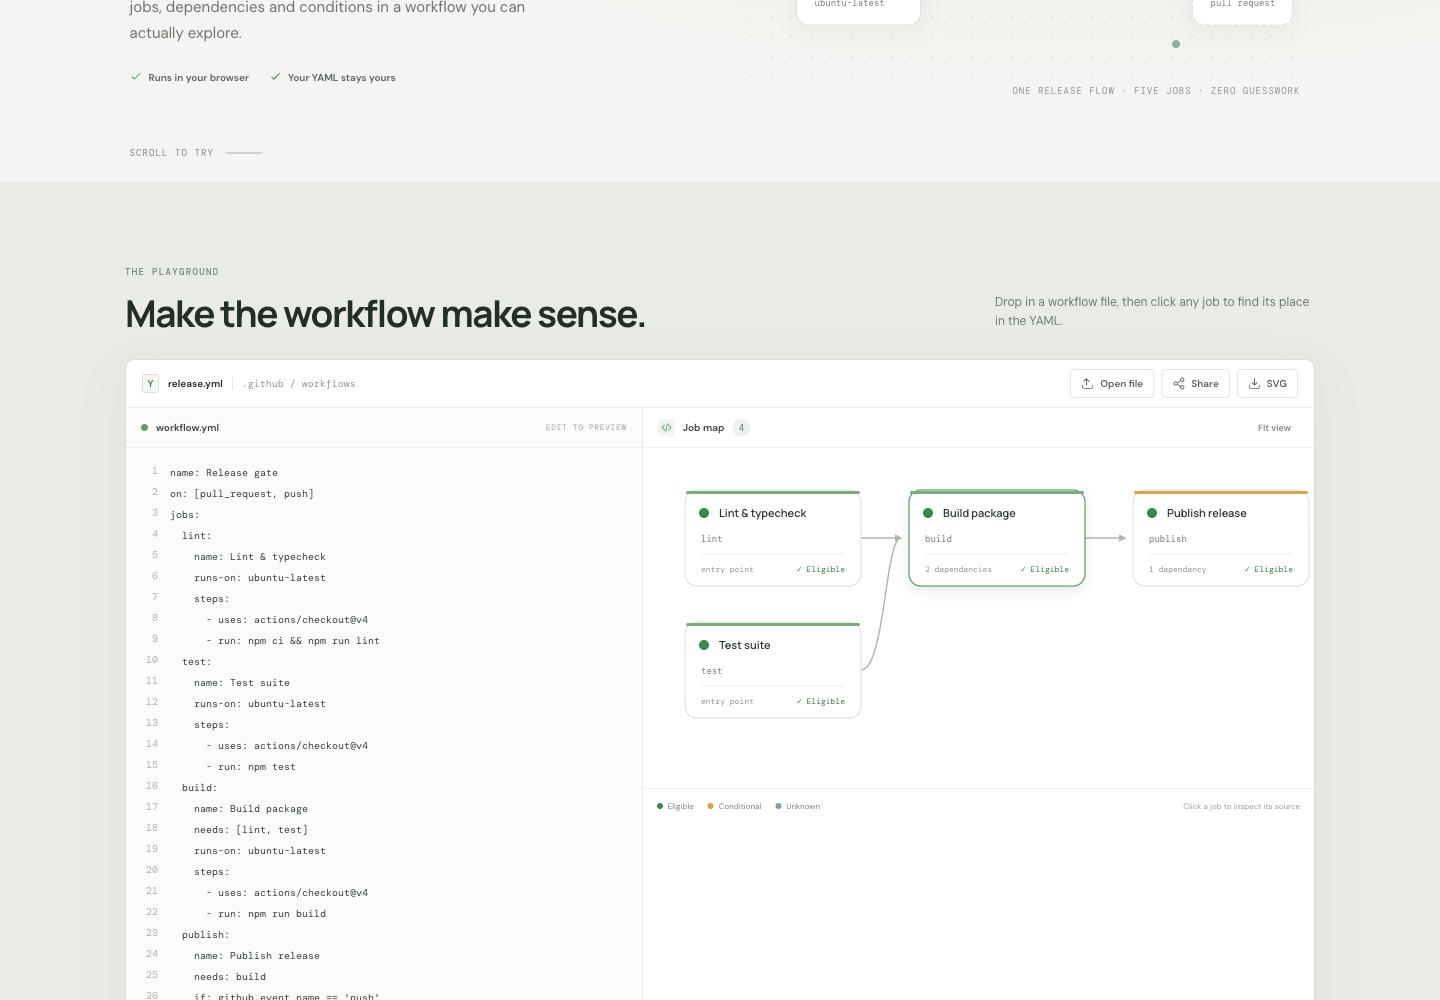
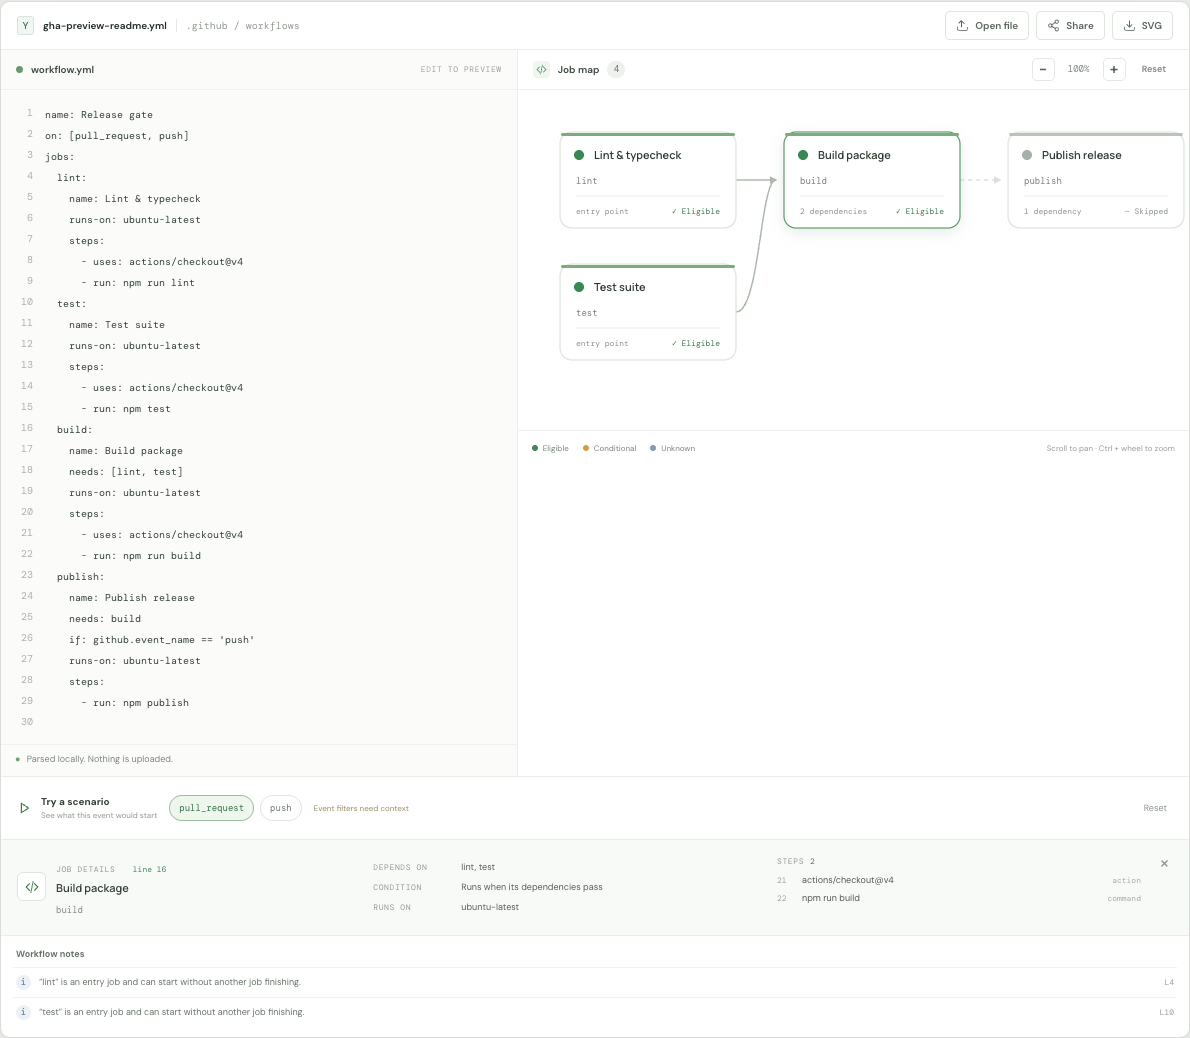
feat: zoom and pan workflow graphs (#7)

diff --git a/src/main.ts b/src/main.ts
@@ -93,7 +93,7 @@ root.innerHTML = `
       <div class="workbench">
         <div class="workbench-bar"><div class="bar-file"><span class="file-icon">Y</span><span id="filename">release.yml</span><span class="bar-path">.github / workflows</span></div><div class="bar-actions"><label class="file-button" for="file-input">${icon('upload')}<span>Open file</span></label><input id="file-input" type="file" accept=".yml,.yaml,text/yaml" hidden/><button id="share-button" class="icon-button" title="Copy a link to this workflow">${icon('share')}<span class="mobile-hide"> Share</span></button><button id="export-button" class="icon-button" title="Download the job graph as SVG">${icon('download')}<span class="mobile-hide"> SVG</span></button></div></div>
         <div class="workbench-body"><section class="editor-pane" aria-label="Workflow editor"><div class="pane-heading"><div><span class="pane-dot"></span> workflow.yml</div><span class="pane-hint">EDIT TO PREVIEW</span></div><div class="editor-wrap"><div id="line-numbers" class="line-numbers" aria-hidden="true"></div><textarea id="yaml-input" spellcheck="false" autocapitalize="off" autocomplete="off" aria-label="GitHub Actions workflow YAML" wrap="off"></textarea></div><div id="editor-message" class="editor-message"><span class="privacy-icon">●</span> Parsed locally. Nothing is uploaded.</div></section>
-          <section class="graph-pane" aria-label="Interactive workflow graph"><div class="pane-heading graph-heading"><div><span class="graph-heading-mark">${icon('code')}</span> Job map <span id="job-count" class="count-pill">—</span></div><button id="fit-button" class="quiet-button" title="Fit graph to view">Fit view</button></div><div id="graph-scroll" class="graph-scroll"><div id="graph" class="graph-canvas"></div></div><div class="graph-footer"><span><i class="legend-dot success"></i>Eligible</span><span><i class="legend-dot conditional"></i>Conditional</span><span><i class="legend-dot unknown"></i>Unknown</span><span class="graph-hint">Click a job to inspect its source</span></div></section>
+          <section class="graph-pane" aria-label="Interactive workflow graph"><div class="pane-heading graph-heading"><div><span class="graph-heading-mark">${icon('code')}</span> Job map <span id="job-count" class="count-pill">—</span></div><div class="graph-controls" aria-label="Graph view controls"><button id="zoom-out" class="zoom-button" aria-label="Zoom out" title="Zoom out">−</button><output id="zoom-level" class="zoom-level" aria-live="polite">100%</output><button id="zoom-in" class="zoom-button" aria-label="Zoom in" title="Zoom in">+</button><button id="fit-button" class="quiet-button" title="Reset zoom and center the graph">Reset</button></div></div><div id="graph-scroll" class="graph-scroll"><div id="graph" class="graph-canvas"></div></div><div class="graph-footer"><span><i class="legend-dot success"></i>Eligible</span><span><i class="legend-dot conditional"></i>Conditional</span><span><i class="legend-dot unknown"></i>Unknown</span><span class="graph-hint">Scroll to pan · Ctrl + wheel to zoom</span></div></section>
         </div>
         <div class="scenario-bar"><div class="scenario-intro">${icon('play')}<span><strong>Try a scenario</strong><small>See what this event would start</small></span></div><div id="event-picker" class="event-picker"></div><span class="scenario-caveat">Event filters need context</span><button id="reset-scenario" class="reset-button">Reset</button></div>
         <div id="inspector" class="inspector" hidden></div>
@@ -114,6 +114,8 @@ const diagnostics = root.querySelector<HTMLDivElement>('#diagnostics')!;
 const eventPicker = root.querySelector<HTMLDivElement>('#event-picker')!;
 const inspector = root.querySelector<HTMLDivElement>('#inspector')!;
 const toast = root.querySelector<HTMLDivElement>('#toast')!;
+const graphViewport = root.querySelector<HTMLDivElement>('#graph-scroll')!;
+let graphZoom = 1;
 let parsed: Workflow;
 let selectedJob: string | undefined;
 let selectedEvent = '';
@@ -251,7 +253,12 @@ function renderInspector(jobId: string) {
 }
 
 function renderGraph() {
+  const previousScrollLeft = graphViewport.scrollLeft;
+  const previousScrollTop = graphViewport.scrollTop;
   graph.innerHTML = svgGraph(parsed);
+  applyGraphZoom();
+  graphViewport.scrollLeft = previousScrollLeft;
+  graphViewport.scrollTop = previousScrollTop;
   graph.querySelectorAll<SVGGElement>('.job-node').forEach((node) => {
     const open = () => {
       selectedJob = node.dataset.job;
@@ -267,6 +274,29 @@ function renderGraph() {
     });
   });
   root.querySelector('#job-count')!.textContent = String(parsed.jobs.length);
+}
+
+function applyGraphZoom() {
+  const svg = graph.querySelector<SVGSVGElement>('.workflow-svg');
+  const output = root.querySelector<HTMLOutputElement>('#zoom-level')!;
+  output.value = `${Math.round(graphZoom * 100)}%`;
+  output.textContent = output.value;
+  if (!svg) return;
+  const width = Number(svg.getAttribute('width'));
+  const height = Number(svg.getAttribute('height'));
+  svg.style.width = `${width * graphZoom}px`;
+  svg.style.height = `${height * graphZoom}px`;
+}
+
+function setGraphZoom(next: number) {
+  const previous = graphZoom;
+  graphZoom = Math.max(0.5, Math.min(2, Math.round(next * 10) / 10));
+  if (graphZoom === previous) return;
+  const focusX = (graphViewport.scrollLeft + graphViewport.clientWidth / 2) / previous;
+  const focusY = (graphViewport.scrollTop + graphViewport.clientHeight / 2) / previous;
+  applyGraphZoom();
+  graphViewport.scrollLeft = focusX * graphZoom - graphViewport.clientWidth / 2;
+  graphViewport.scrollTop = focusY * graphZoom - graphViewport.clientHeight / 2;
 }
 
 function renderEvents() {
@@ -370,9 +400,54 @@ root.querySelector('#reset-scenario')!.addEventListener('click', () => {
   selectedEvent = '';
   update();
 });
+root
+  .querySelector('#zoom-in')!
+  .addEventListener('click', () => setGraphZoom(graphZoom + 0.1));
+root
+  .querySelector('#zoom-out')!
+  .addEventListener('click', () => setGraphZoom(graphZoom - 0.1));
 root.querySelector('#fit-button')!.addEventListener('click', () => {
-  root.querySelector('#graph-scroll')!.scrollTo({ left: 0, top: 0, behavior: 'smooth' });
+  graphZoom = 1;
+  applyGraphZoom();
+  graphViewport.scrollTo({ left: 0, top: 0, behavior: 'smooth' });
 });
+graphViewport.addEventListener(
+  'wheel',
+  (event) => {
+    if (!event.ctrlKey) return;
+    event.preventDefault();
+    setGraphZoom(graphZoom + (event.deltaY < 0 ? 0.1 : -0.1));
+  },
+  { passive: false },
+);
+let panStart: { x: number; y: number; left: number; top: number } | undefined;
+graphViewport.addEventListener('pointerdown', (event) => {
+  if (event.pointerType !== 'mouse' || event.button !== 0) return;
+  if (event.target instanceof Element && event.target.closest('.job-node')) return;
+  panStart = {
+    x: event.clientX,
+    y: event.clientY,
+    left: graphViewport.scrollLeft,
+    top: graphViewport.scrollTop,
+  };
+  graphViewport.setPointerCapture(event.pointerId);
+  graphViewport.classList.add('is-panning');
+});
+graphViewport.addEventListener('pointermove', (event) => {
+  if (!panStart) return;
+  graphViewport.scrollLeft = panStart.left - (event.clientX - panStart.x);
+  graphViewport.scrollTop = panStart.top - (event.clientY - panStart.y);
+});
+function endPan(event: PointerEvent) {
+  if (!panStart) return;
+  panStart = undefined;
+  graphViewport.classList.remove('is-panning');
+  if (graphViewport.hasPointerCapture(event.pointerId)) {
+    graphViewport.releasePointerCapture(event.pointerId);
+  }
+}
+graphViewport.addEventListener('pointerup', endPan);
+graphViewport.addEventListener('pointercancel', endPan);
 root
   .querySelector<HTMLInputElement>('#file-input')!
   .addEventListener('change', async (event) => {

diff --git a/src/style.css b/src/style.css
@@ -538,6 +538,39 @@ p {
   color: #677468;
   font: 9px var(--mono);
 }
+.graph-controls {
+  display: flex;
+  align-items: center;
+  gap: 3px;
+}
+.zoom-button {
+  width: 23px;
+  height: 23px;
+  display: grid;
+  place-items: center;
+  border: 1px solid #e3e9e2;
+  border-radius: 5px;
+  background: #fff;
+  color: #58665a;
+  font-size: 15px;
+  line-height: 1;
+  cursor: pointer;
+}
+.zoom-button:hover {
+  border-color: #b6c7b6;
+  color: #31764e;
+}
+.zoom-button:focus-visible,
+.quiet-button:focus-visible {
+  outline: 2px solid #438154;
+  outline-offset: 2px;
+}
+.zoom-level {
+  width: 32px;
+  color: #7b857b;
+  font: 9px var(--mono);
+  text-align: center;
+}
 .quiet-button {
   padding: 4px 8px;
   border: 0;
@@ -554,8 +587,15 @@ p {
   min-height: 300px;
   max-height: 340px;
   overflow: auto;
+  overscroll-behavior: contain;
+  touch-action: pan-x pan-y;
   scrollbar-width: thin;
   scrollbar-color: #c8d0c7 transparent;
+  cursor: grab;
+}
+.graph-scroll.is-panning {
+  cursor: grabbing;
+  user-select: none;
 }
 .graph-canvas {
   min-width: 100%;
@@ -566,6 +606,9 @@ p {
 .workflow-svg {
   max-width: none;
   overflow: visible;
+  transition:
+    width 120ms ease-out,
+    height 120ms ease-out;
 }
 .edge {
   fill: none;
@@ -1601,6 +1644,9 @@ p {
     animation-duration: 0.01ms !important;
     animation-iteration-count: 1 !important;
     transition-duration: 0.01ms !important;
+  }
+  .workflow-svg {
+    transition: none;
   }
 }
 .scenario-caveat {

diff --git a/README.md b/README.md
@@ -42,6 +42,7 @@ tests ─────┘
 ## What it does
 
 - **Shows the job graph.** Follow `needs:` links, identify entry points, and spot missing jobs or dependency cycles.
+- **Navigates large maps.** Zoom with the graph controls or `Ctrl` + scroll; drag empty space to pan, or scroll and swipe on touchscreens.
 - **Previews common events.** Select a declared trigger to see which jobs are eligible, skipped by a simple event condition, or need runtime context.
 - **Links the map to the source.** Select a job, step, or diagnostic to jump to its YAML line.
 - **Exports a clean SVG.** Save the current dependency map for a pull request, issue, or README.
@@ -106,7 +107,8 @@ Bug reports and focused pull requests are welcome. Please redact secrets from sa
 - [x] Browser-only YAML editor and interactive job graph
 - [x] Click-through source locations, diagnostics, SVG export, and compressed share links
 - [x] Conservative preview for common workflow events
-- [ ] Better readability for large workflows: zoom, pan, and matrix expansion
+- [x] Zoom and pan large workflow graphs
+- [ ] Expand matrix combinations in the job map
 - [ ] More expression helpers, with explicit unknown states for runtime-only values
 - [ ] Visual diff between two workflow revisions
 
